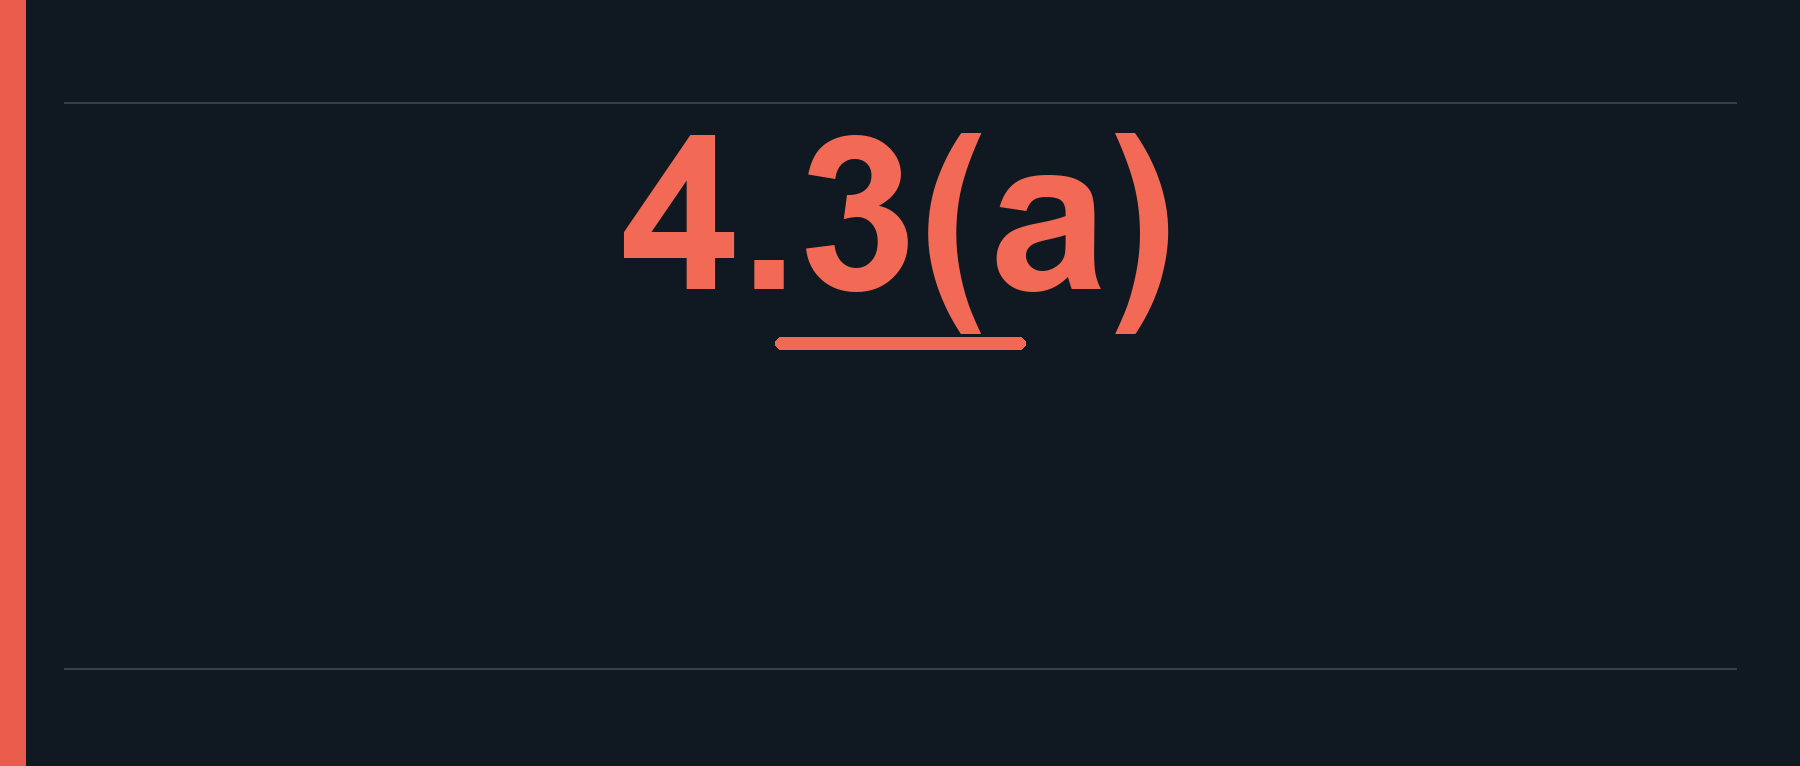
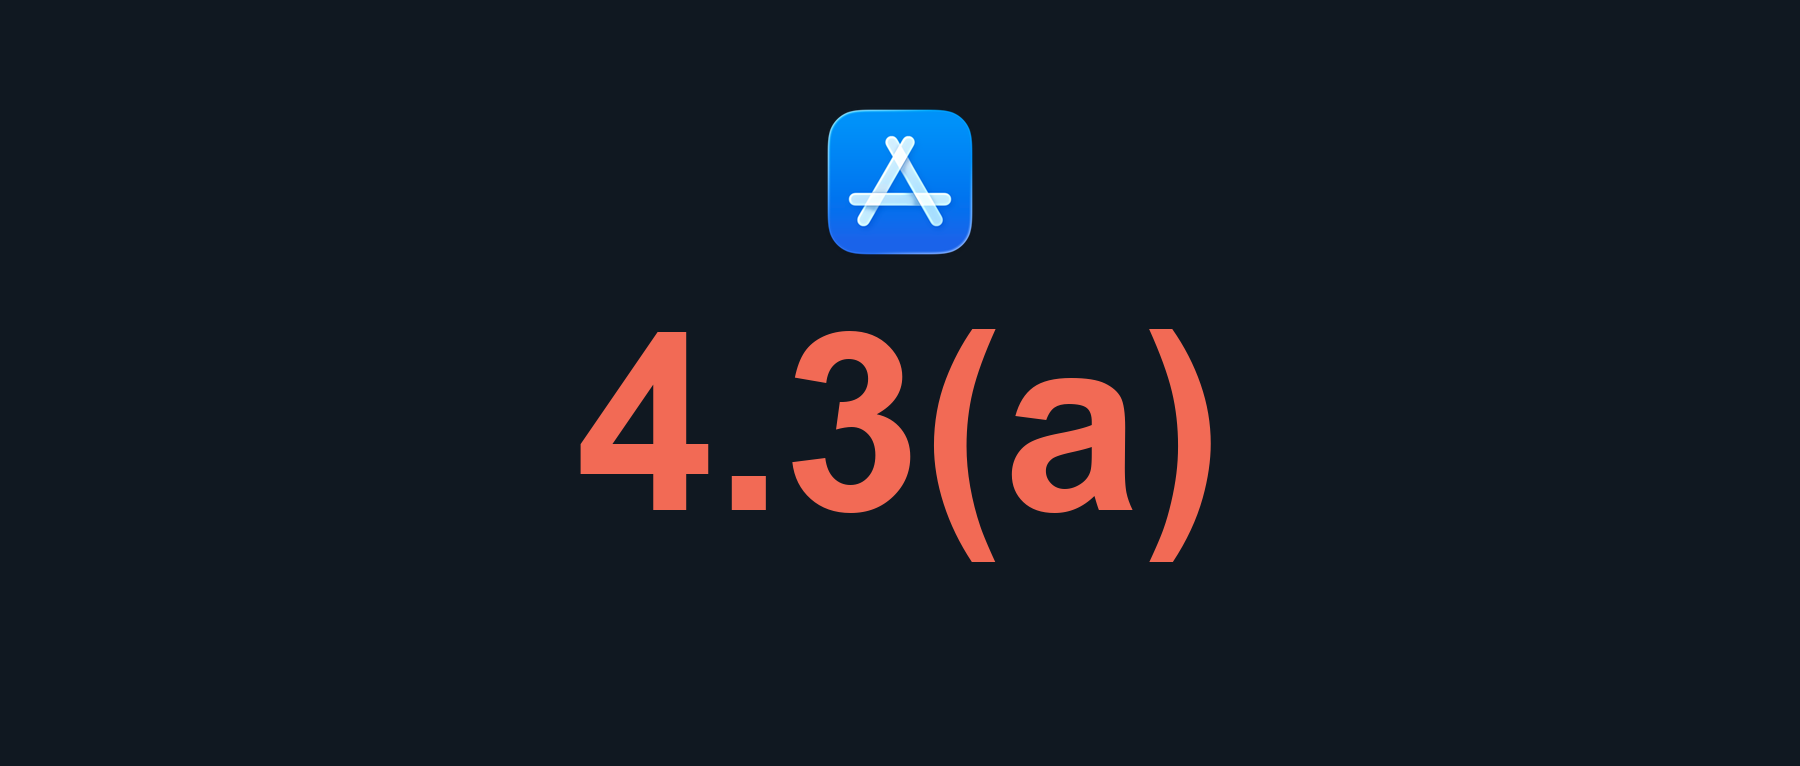
refine: 用 App Store 图标与 4.3(a) 呈现拒审主题

Changed region(s): [[0.3111, 0.1201, 0.6844, 0.7507], [0.0, 0.0, 0.0311, 1.0]]

diff --git a/editorial-cover-skill/examples/tingtu-43a/make_background.py b/editorial-cover-skill/examples/tingtu-43a/make_background.py
@@ -1,20 +1,19 @@
 from pathlib import Path
 from PIL import Image, ImageDraw, ImageFont
 
-out = Path(__file__).parent / 'background-wechat.png'
+base = Path(__file__).parent
+out = base / 'background-wechat.png'
 W, H = 1800, 766
 im = Image.new('RGB', (W, H), '#101821')
 d = ImageDraw.Draw(im)
-# Narrow rails give the composition energy without imitating an App Store screen.
-d.rectangle((0, 0, 25, H), fill='#E95C4B')
-d.line((64, 102, 1736, 102), fill='#34414B', width=2)
-d.line((64, 668, 1736, 668), fill='#34414B', width=2)
-# The actual rejection code is the focal object, rendered deterministically.
-font = ImageFont.truetype('/System/Library/Fonts/Supplemental/Arial Bold.ttf', 214)
+# The unmodified App Store icon identifies the platform without inventing UI.
+icon = Image.open(base / 'app-store-icon.png').convert('RGBA')
+icon = icon.resize((180, 180), Image.Resampling.LANCZOS)
+im.paste(icon, ((W - icon.width) // 2, 92), icon)
+# The exact rejection code, rather than an explanatory headline, is the focal object.
+font = ImageFont.truetype('/System/Library/Fonts/Supplemental/Arial Bold.ttf', 248)
 label = '4.3(a)'
 box = d.textbbox((0, 0), label, font=font)
 x = (W - (box[2] - box[0])) // 2
-d.text((x, 95), label, font=font, fill='#F26A55')
-# A short underline anchors the exact code to the article, not to an invented UI.
-d.rounded_rectangle((W//2-125, 337, W//2+125, 349), radius=6, fill='#F26A55')
+d.text((x, 285), label, font=font, fill='#F26A55')
 im.save(out, optimize=True)

diff --git a/editorial-cover-skill/examples/tingtu-43a/README.md b/editorial-cover-skill/examples/tingtu-43a/README.md
@@ -1,12 +1,12 @@
 # 听途 4.3(a) 文章封面示例
 
-这篇文章讨论一个从零开发的 App 被以 4.3(a) 相似性理由拒审，作者没有拿到具体比对依据。封面选择正文中真实的拒审代码 `4.3(a)` 和核心冲突作为视觉焦点；它不描绘苹果内部检测机制。
+这篇文章讨论一个从零开发的 App 被以 4.3(a) 相似性理由拒审，作者没有拿到具体比对依据。封面只保留真实 App Store 图标和拒审代码 `4.3(a)`；具体经历由文章标题说明。它不描绘苹果内部检测机制。
 
 ![公众号横幅封面](./cover-wechat.png)
 
 [查看居中方形预览](./preview-wechat-square.png)
 
-这是使用 Pillow 排版和绘制的原创图形，不依赖 AI 生图。`make_background.py` 绘制深色底图与拒审代码；`cover.json` 交给 Skill 的 `render_cover.py` 完成中文标题与裁切。
+这是使用 Pillow 排版和绘制的封面，不依赖 AI 生图。`app-store-icon.png` 提取自 macOS 系统自带的 `/System/Applications/App Store.app/Contents/Resources/AppIcon.icns`，图标及品牌归 Apple 所有；这里仅用于识别文章主题，不暗示官方关联。`make_background.py` 绘制深色底图、放置真实图标与拒审代码；`cover.json` 交给 Skill 的 `render_cover.py` 完成裁切。
 
 在仓库根目录复现：
 

diff --git a/editorial-cover-skill/examples/tingtu-43a/brief.md b/editorial-cover-skill/examples/tingtu-43a/brief.md
@@ -5,5 +5,5 @@
 - 正文支持的视觉锚点：Guideline 4.3(a) 拒审代码、“从零开发”“相似”两项相互冲突的事实。
 - 禁止误导：不生成 Apple 审核界面、官方印章、虚构的匹配 App、未证实的算法流程。
 - 受众与语气：独立开发者；醒目、有疑问感，但不耸动。
-- 3 秒识别目标：看到 4.3(a) 与“从零开发，却被判相似”。
-- 构图：深色高对比排版，巨大的真实拒审代码作为视觉焦点，短句说明冲突；无需生成虚构物件。
+- 3 秒识别目标：专业读者看到真实 App Store 图标与醒目的 4.3(a)，立即知道这是 App Store 的 4.3(a) 审核问题。
+- 构图：去掉装饰线和解释性标题，只保留真实品牌图标与拒审代码。具体经历由文章标题和正文展开，不让封面误充官方公告。

diff --git a/editorial-cover-skill/references/platforms.md b/editorial-cover-skill/references/platforms.md
@@ -2,7 +2,7 @@
 
 | 平台 | 默认产物 | 画幅 | 标题默认 | 核心注意 |
 |---|---:|---:|---|---|
-| 微信公众号首条 | 900×383 | ~2.35:1 | 由画面决定；必要时用 6–14 字短标题 | 中央 383×383 可用作方形裁切预览；重要主体与关键词保持在中心 |
+| 微信公众号首条 | 900×383 | ~2.35:1 | 优先有辨识度的无标题画面；必要时用 6–14 字短标题 | 中央 383×383 可用作方形裁切预览；重要主体与关键词保持在中心 |
 | 小红书图文首图 | 1080×1440 | 3:4 | 5–12 中文字符 | 尽量两行内、远离四边、生成中央方形预览 |
 | 抖音竖版视频封面 | 1080×1920 | 9:16 | 4–10 中文字符 | 重要内容主要放中部，避免平台 UI 遮盖 |
 
